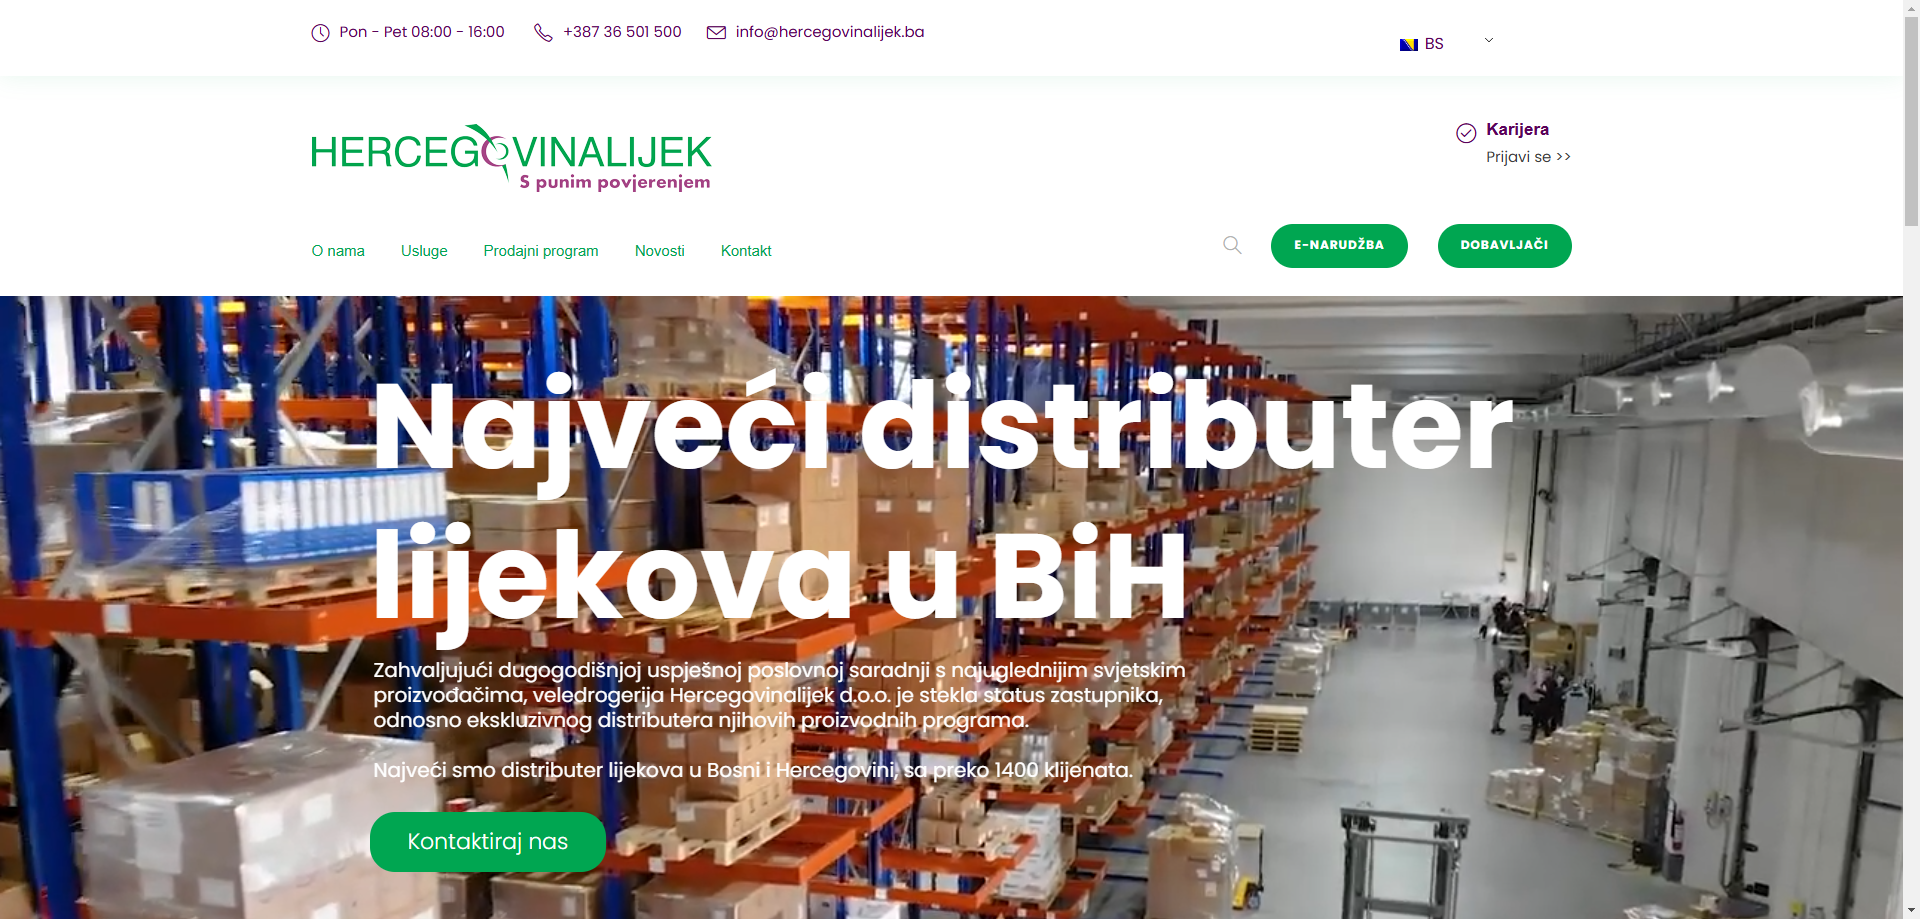
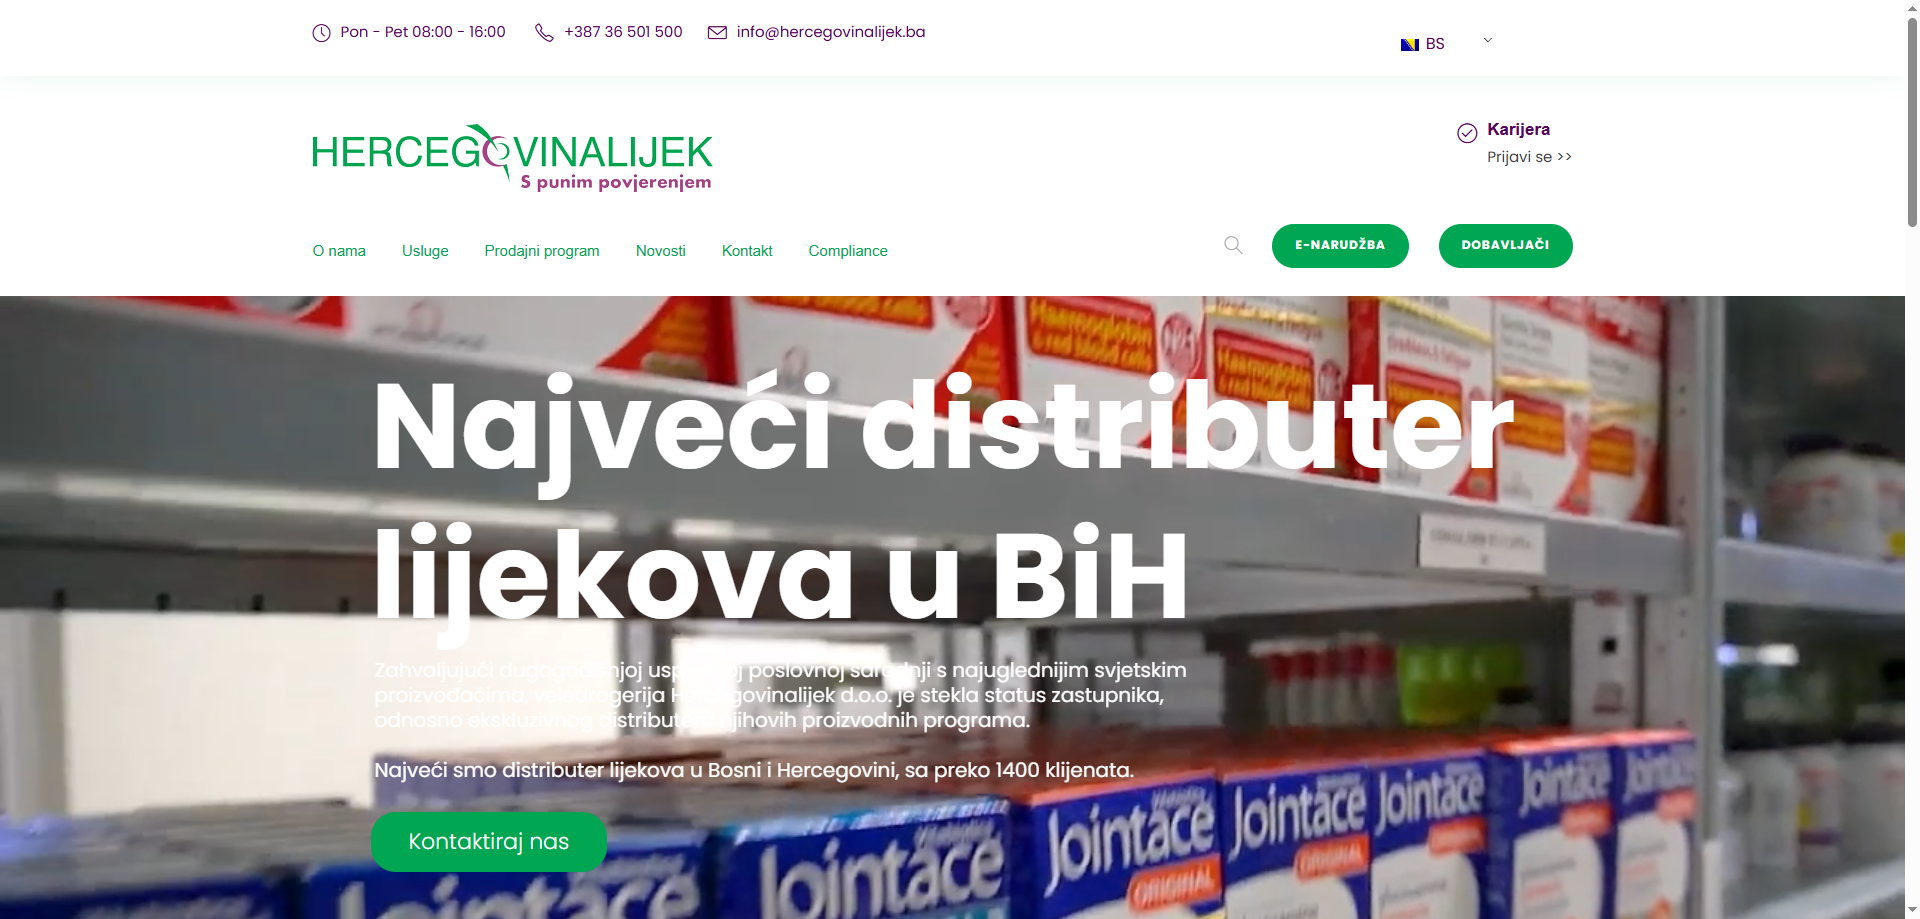
Optimizacija za mobile lighthouse test

diff --git a/resources/views/partials/nav.blade.php b/resources/views/partials/nav.blade.php
@@ -2,7 +2,24 @@
     <div class="container mx-auto flex items-center justify-between py-2 md:shadow-xl md:px-5 md:rounded-2xl">
         <!-- Logo -->
         <div>
-            <a href="/"><img src="{{ URL::asset('images/logo.png') }}" alt="Reunion logo" class="w-[200px] md:w-[300px]"></a>
+            <a href="/">
+                <picture>
+                    <!-- mobile -->
+                    <source
+                        srcset="{{ URL::asset('images/Reunion-logo-mobile.png') }}"
+                        media="(max-width: 768px)">
+
+                    <!-- desktop fallback -->
+                    <img
+                        src="{{ URL::asset('images/logo.png') }}"
+                        width="300"
+                        height="102"
+                        alt="Reunion logo"
+                        class="w-[200px] h-full md:w-[300px]"
+                        loading="eager"
+                        fetchpriority="high">
+                </picture>
+            </a>
         </div>
 
         <!-- Navigacija (desktop) -->
@@ -20,14 +37,18 @@
 
         <!-- Dugme (desktop) -->
         <div class="hidden md:inline-block">
-            <a href="{{ route('digitalni-savjetnik') }}" class="font-heading bg-primary text-sm md:text-md px-3 md:px-8 py-4 rounded-2xl text-default">
+            <a href="{{ route('digitalni-savjetnik') }}" class="font-heading bg-primary 
+text-xs sm:text-sm md:text-sm lg:text-md 
+px-3 sm:px-4 md:px-4 lg:px-8 
+py-2 md:py-3 lg:py-4 
+rounded-2xl text-default whitespace-nowrap">
                 Digitalni savjetnik &rarr;
             </a>
         </div>
 
         <!-- Hamburger (mobile) -->
         <div class="md:hidden">
-            <button @click="open = ! open" class="font-heading px-8 py-4 rounded-2xl text-default cursor-pointer">
+            <button @click="open = ! open" class="font-heading px-8 py-4 rounded-2xl text-default cursor-pointer" aria-label="mobile-btn">
                 <i class="fa-solid fa-bars text-black text-2xl"></i>
             </button>
         </div>
@@ -36,7 +57,7 @@
     <!-- Mobilni meni -->
     <div x-show="open" x-transition class="md:hidden">
         <nav>
-            <ul class="flex flex-col w-full h-screen gap-3 font-heading font-bold text-center leading-10 px-5">
+            <ul class="flex flex-col w-full min-h-screen gap-3 font-heading font-bold text-center leading-10 px-5">
                 <li class="py-2 px-4 hover:bg-primary rounded-xl transition duration-350 hover:text-default"><a href="{{ route('o-nama') }}">O nama</a></li>
                 <li class="py-2 px-4 hover:bg-primary rounded-xl transition duration-350 hover:text-default"><a href="{{ route('services') }}">Usluge</a></li>
                 <li class="py-2 px-4 hover:bg-primary rounded-xl transition duration-350 hover:text-default"><a href="{{ route('b4b') }}">B4B</a></li>

diff --git a/resources/views/home.blade.php b/resources/views/home.blade.php
@@ -120,10 +120,12 @@
         <div
             class="carousel flex flex-col font-body w-full md:w-2/3"
             x-data="{ active: 0, items: [
-                '{{ URL::asset('/images/Hercegovinalijek.png') }}',
-                '{{ URL::asset('/images/Gaj.png') }}',
-                '{{ URL::asset('/images/Nela.png') }}',
-                '{{ URL::asset('/images/zou silic.png') }}'
+                '{{ URL::asset('/images/hercegovinalijek.webp') }}',
+                '{{ URL::asset('/images/zou-silic.webp') }}',
+                '{{ URL::asset('/images/hotel-swiss-plus.webp') }}',
+                '{{ URL::asset('/images/perfectfit.webp') }}',
+                '{{ URL::asset('/images/novaprica.webp') }}',
+                '{{ URL::asset('/images/autoprevoz.webp') }}',
             ] }">
             <!-- Slike -->
             <div class="flex justify-between">
@@ -131,8 +133,9 @@
                     <img
                         :src="item"
                         x-show="active === index"
-                        class="rounded-2xl w-full md:w-full transition duration-500 ease-in-out"
-                        alt="radovi">
+                        class="rounded-2xl w-full  md:w-full transition duration-500 ease-in-out"
+                        alt="radovi"
+                        loading="lazy">
                 </template>
             </div>
 

diff --git a/resources/views/partials/footer.blade.php b/resources/views/partials/footer.blade.php
@@ -2,7 +2,22 @@
     <div class="max-w-screen-2xl mx-auto px-6 py-12 grid grid-cols-1 md:grid-cols-2 gap-10">
         <!-- Logo + opis -->
         <div>
-            <img src="{{ URL::asset('images/logo-white.png') }}" alt="Reunion logo" width="250" class="mb-4">
+            <picture>
+                <!-- mobile -->
+                <source
+                    srcset="{{ URL::asset('images/Reunion-footer-logo-mobile.png') }}"
+                    media="(max-width: 768px)">
+
+                <!-- desktop fallback -->
+                <img
+                    src="{{ URL::asset('images/Reunion-footer-logo-mobile.png') }}"
+                    width="300"
+                    height="102"
+                    alt="Reunion logo"
+                    class="w-[200px] h-[68px]  md:w-[300px] md:h-[102px]"
+                    loading="eager"
+                    fetchpriority="high">
+            </picture>
             <p class="text-sm leading-relaxed max-w-md font-body">
                 Reunion web & marketing agencija se bavi dizajnom i izradom web stranica, web aplikacija, kao i digitalnlim marketingom.
                 Vezane usluge su oglašavanje (Google ads, Facebook & Instagram ads), kao i profesionalna fotografija.

diff --git a/resources/views/components/hero-section.blade.php b/resources/views/components/hero-section.blade.php
@@ -31,10 +31,10 @@
 
         </p>
 
-        <div class="flex flex-row text-2xl mt-10 items-center">
+        <div class="flex flex-row text-2xl mt-10 items-center min-h-[80px]">
             <button @click="prev" class=" left-80 md:left-160 text-5xl cursor-pointer hover:text-primary">&larr;</button>
 
-            <p class="font-heading mx-auto text-center font-bold" x-text="services[currentIndex]"></p>
+            <p class="font-heading mx-auto text-center font-bold w-[250px]" x-text="services[currentIndex]"></p>
 
             <button @click="next" class=" right-8 md:right-160 text-5xl cursor-pointer hover:text-primary">&rarr;</button>
         </div>

diff --git a/resources/views/layouts/site.blade.php b/resources/views/layouts/site.blade.php
@@ -15,12 +15,12 @@
     @vite(['resources/css/app.css', 'resources/js/app.js'])
 </head>
 
-<body class="font-sans antialiased">
-    <div class="min-h-screen">
+<body class="font-sans antialiased overflow-x-hidden">
+    <div class="min-h-screen flex flex-col">
         {{-- ovdje ide tvoj header/navbar --}}
         @include('partials.nav')
 
-        <main>
+        <main class="flex-1">
             @yield('content')
         </main>
 
